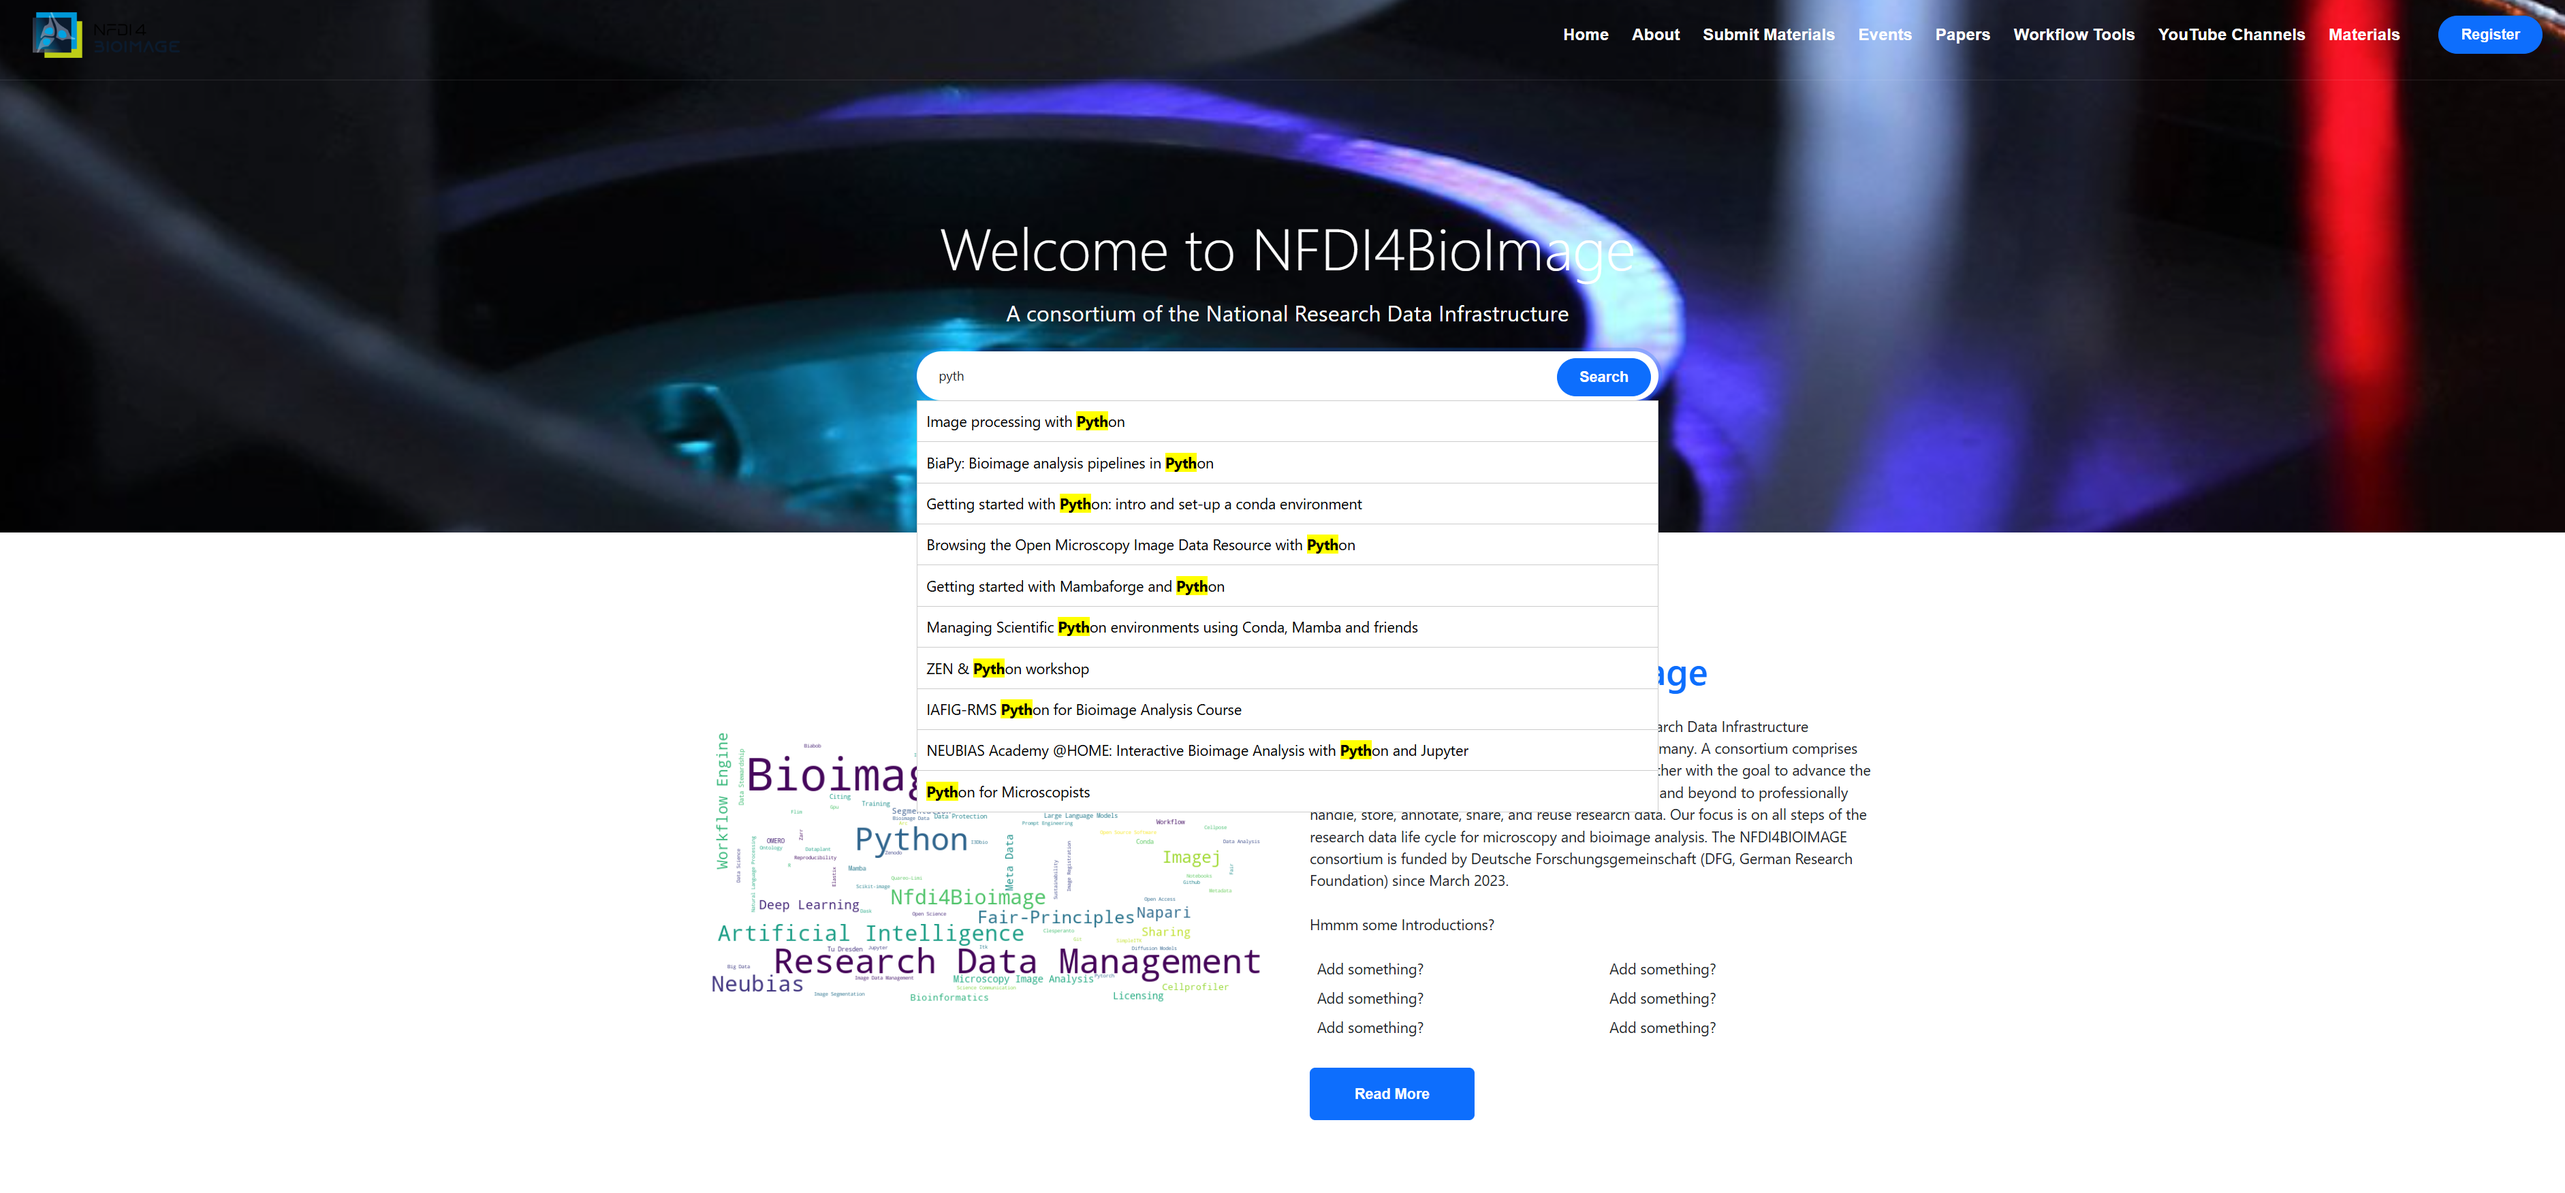
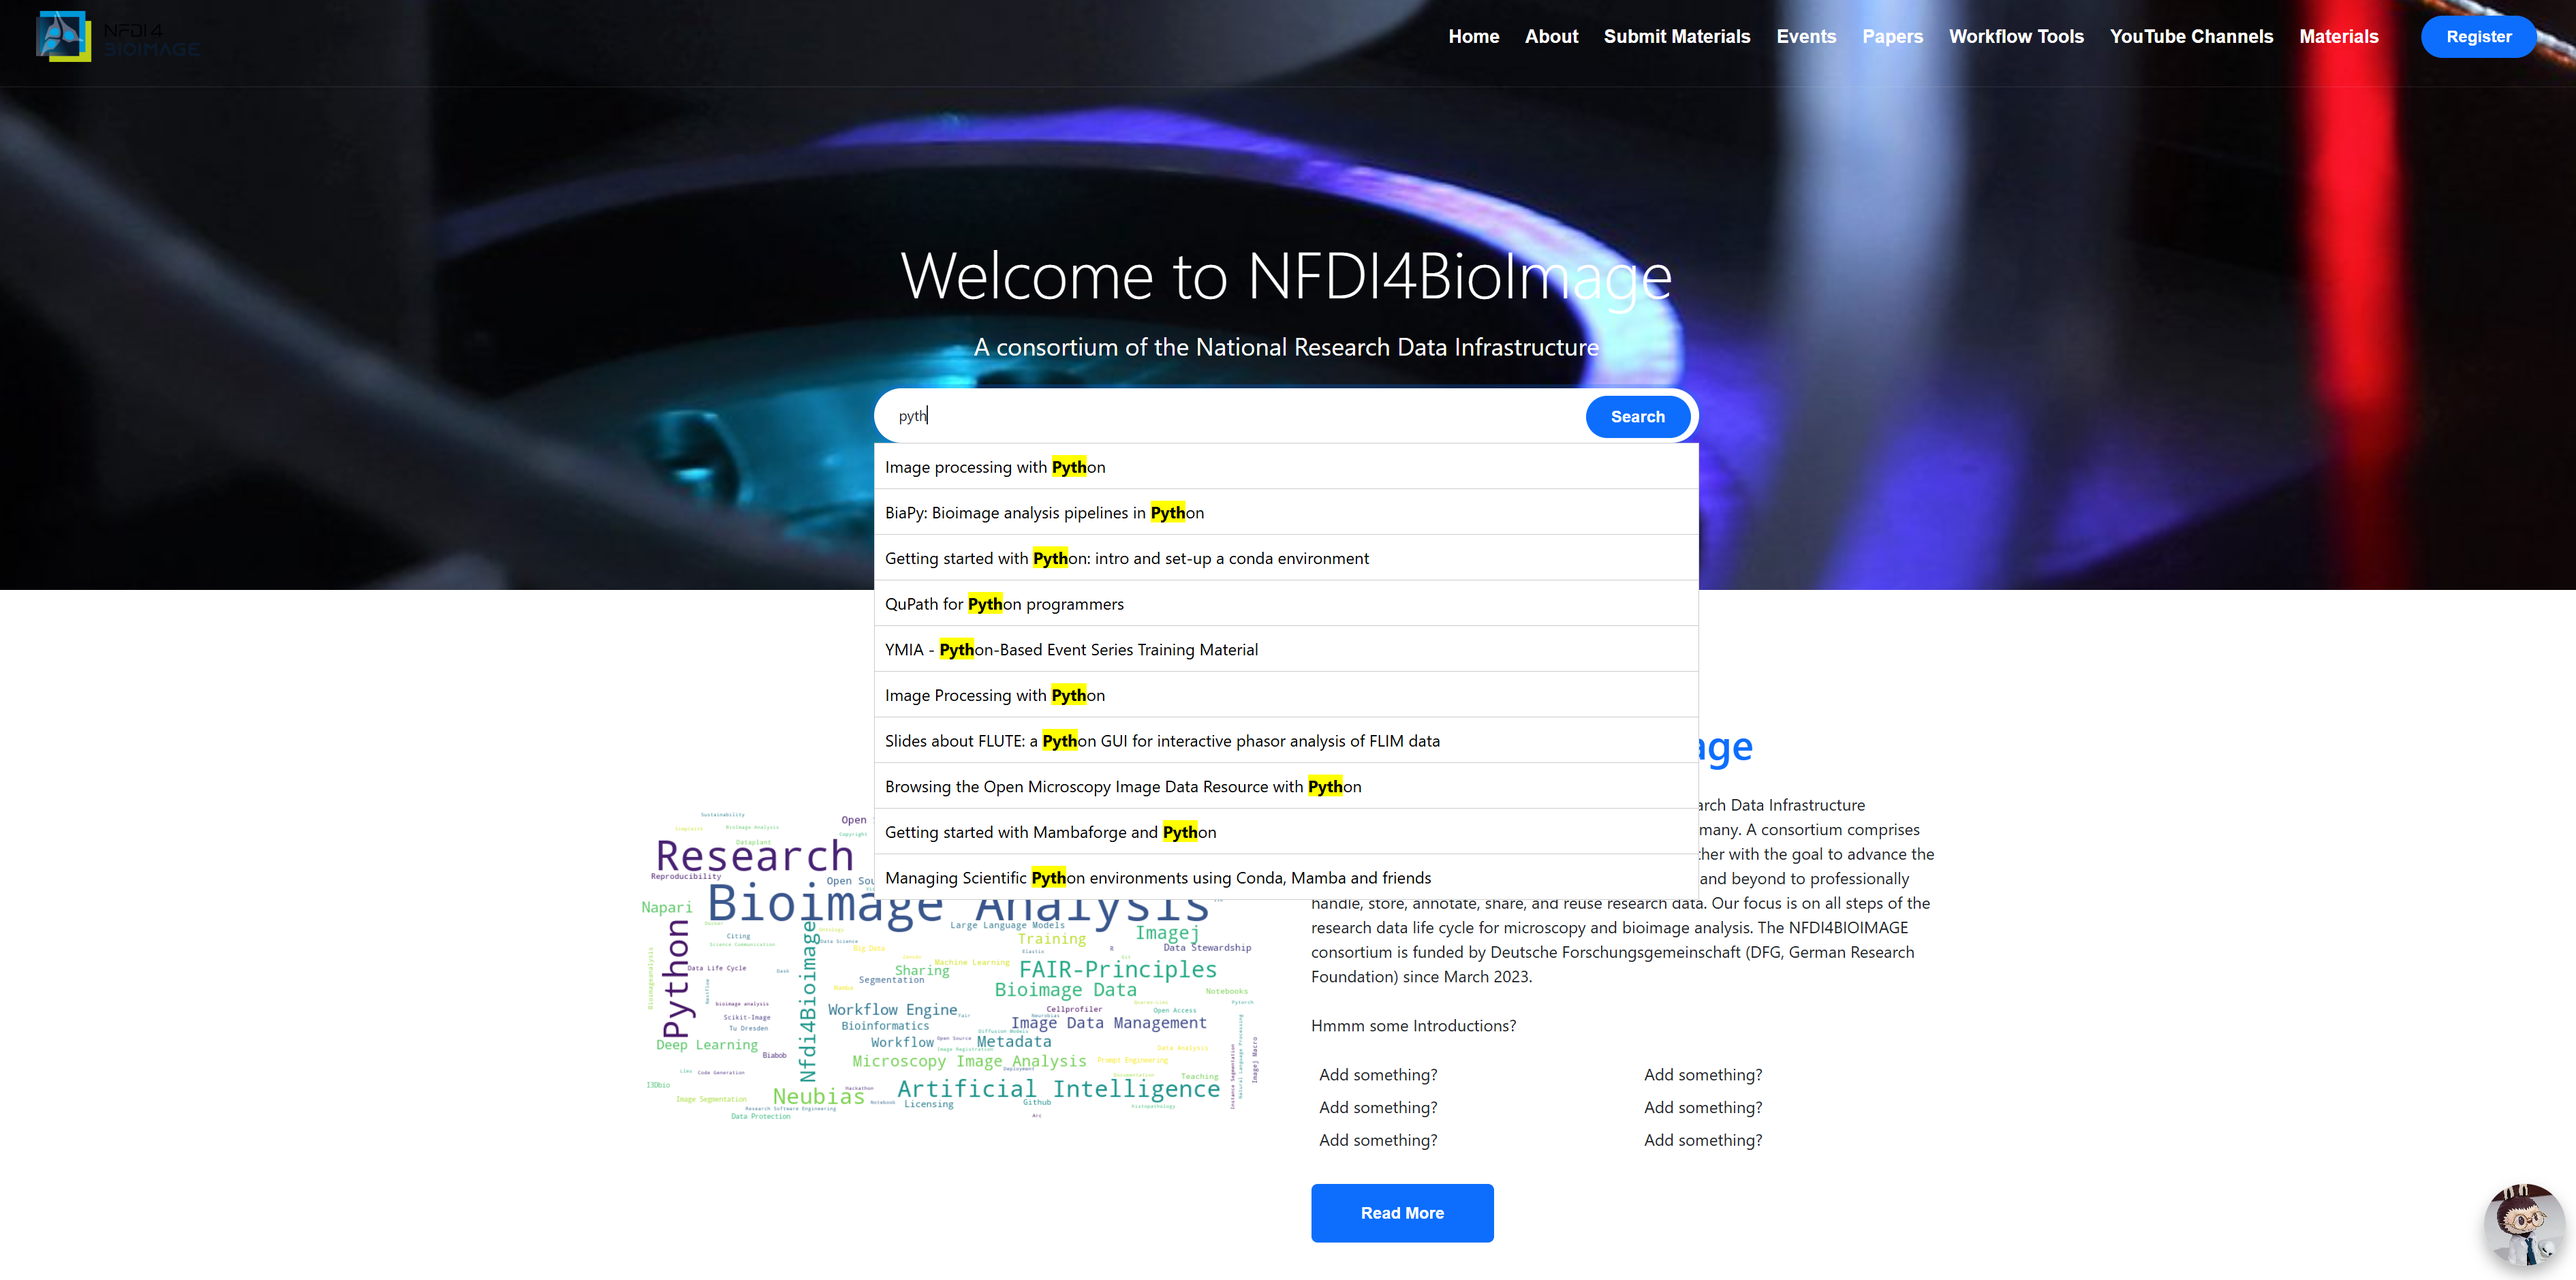
updated some details to contain the chatbot

diff --git a/README.md b/README.md
@@ -63,7 +63,7 @@ To simplify the setup process, the project is containerized with Docker. Follow 
 
 This command will pull all necessary images, build the project, and start the containers.
 
-4. **Important**: After the initial setup, when you start the containers again by clicking the **Start** button in Docker Desktop, you will need to wait approximately **43 seconds** for Elasticsearch to fully initialize before the search engine becomes accessible.
+4. **Important**: After the initial setup, when you start the containers again by clicking the **Start** button in Docker Desktop, you will need to wait approximately **37 seconds** for Elasticsearch and the Chatbot's LLM service to fully initialize before the search engine and chatbot become accessible.
 
 
 ## Accessing the Application
